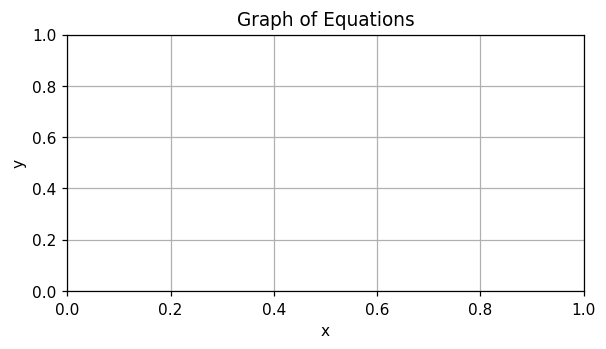
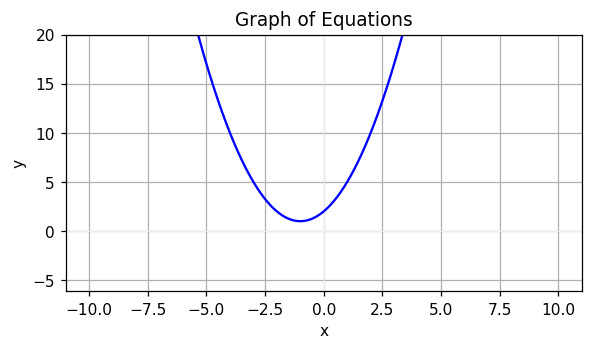
NR added to quadratics for non real roots

diff --git a/templates/index_past.html b/templates/index_past.html
@@ -106,7 +106,52 @@
             {% endif %}
 
             <!-- Calculator Section -->
-           
+            <div class="row">
+                <div class="col-12 calculator-section">
+                    <div class="card shadow-sm">
+                        <div class="card-body">
+                            <div id="calculator" class="mx-auto">
+                                <div id="keys">
+                                    <button onclick="append_to_equation('x')" class="variable-btn">x</button>
+                                    <button onclick="append_to_equation('y')" class="variable-btn">y</button>
+                                    <button onclick="append_to_equation('z')" class="variable-btn">z</button>
+                                    <button onclick="append_to_equation('=')" class="function-btn">=</button>
+                                    <button onclick="append_to_equation('\\n')" class="function-btn">New Line</button>
+                                    
+                                    <button onclick="append_to_equation('(')" class="function-btn">(</button>
+                                    <button onclick="append_to_equation(')')" class="function-btn">)</button>
+                                    <button onclick="append_to_equation('^')" class="function-btn">^</button>
+                                    <button onclick="append_to_equation('/')" class="operator-btn">÷</button>
+                                    <button onclick="append_to_equation('\\sqrt{}')" class="function-btn">√</button>
+                                    
+                                    <button onclick="append_to_equation('7')">7</button>
+                                    <button onclick="append_to_equation('8')">8</button>
+                                    <button onclick="append_to_equation('9')">9</button>
+                                    <button onclick="append_to_equation('-')" class="operator-btn">−</button>
+                                    <button onclick="append_to_equation('\\frac{}{}')" class="function-btn">⁄</button>
+                                    
+                                    <button onclick="append_to_equation('4')">4</button>
+                                    <button onclick="append_to_equation('5')">5</button>
+                                    <button onclick="append_to_equation('6')">6</button>
+                                    <button onclick="append_to_equation('*')" class="operator-btn">×</button>
+                                    <button onclick="get_prev_ans()" class="function-btn">ANS</button>
+                                    
+                                    <button onclick="append_to_equation('1')">1</button>
+                                    <button onclick="append_to_equation('2')">2</button>
+                                    <button onclick="append_to_equation('3')">3</button>
+                                    <button onclick="append_to_equation('+')" class="operator-btn">+</button>
+                                    <button onclick="clear_equation()" class="clear-btn">C</button>
+                                    
+                                    <button onclick="append_to_equation('0')" class="wide-btn">0</button>
+                                    <button onclick="append_to_equation('.')">.</button>
+                                    <button onclick="backspace()" class="function-btn">⌫</button>
+                                    <button onclick="solve_equation()" class="equal-btn">Solve</button>
+                                </div>
+                            </div>
+                        </div>
+                    </div>
+                </div>
+            </div>
         </div>
     </div>
     <script defer src="https://cdn.jsdelivr.net/npm/bootstrap@5.3.3/dist/js/bootstrap.bundle.min.js"></script>

diff --git a/static/scripts.js b/static/scripts.js
@@ -54,26 +54,26 @@ function solve_equation() {
 }
 
 
-document.addEventListener('DOMContentLoaded', function() {
-    const equationsArea = document.getElementById("equations");
+// document.addEventListener('DOMContentLoaded', function() {
+//     const equationsArea = document.getElementById("equations");
     
-    // Add keyboard event listener for keyboard shortcuts
-    equationsArea.addEventListener('keydown', function(event) {
-        // Allow special key combinations (like Ctrl+C, Ctrl+V)
-        if (event.ctrlKey || event.metaKey) {
-            return;
-        }
+//     // Add keyboard event listener for keyboard shortcuts
+//     equationsArea.addEventListener('keydown', function(event) {
+//         // Allow special key combinations (like Ctrl+C, Ctrl+V)
+//         if (event.ctrlKey || event.metaKey) {
+//             return;
+//         }
         
-        // Handle Enter key to add a new line instead of submitting the form
-        if (event.key === 'Enter' && !event.shiftKey) {
-            event.preventDefault();
-            append_to_equation('\\n');
-        }
-    });
+//         // Handle Enter key to add a new line instead of submitting the form
+//         if (event.key === 'Enter' && !event.shiftKey) {
+//             event.preventDefault();
+//             append_to_equation('\\n');
+//         }
+//     });
     
-    // Initialize focus on the textarea when page loads
-    equationsArea.focus();
-});
+//     // Initialize focus on the textarea when page loads
+//     equationsArea.focus();
+// });
 
 
 async function get_prev_ans() {  

diff --git a/templates/index.html b/templates/index.html
@@ -145,7 +145,7 @@
                                     <button onclick="append_to_equation('0')" class="wide-btn">0</button>
                                     <button onclick="append_to_equation('.')">.</button>
                                     <button onclick="backspace()" class="function-btn">⌫</button>
-                                    <button onclick="solve_equation()" class="equal-btn">Solve</button>
+                                    <button onclick="solve_equation()" class="solve-btn">Solve</button>
                                 </div>
                             </div>
                         </div>

diff --git a/static/styles.css b/static/styles.css
@@ -160,7 +160,7 @@ h5{
   background-color: #8b2020 !important;  
 }
 
-.equal-btn {
+.solve-btn {
   background-color: #16a085 !important;  
 }
 

diff --git a/equationSolver.py b/equationSolver.py
@@ -204,12 +204,7 @@ def row_reduction(A):
     return B
 
 def back_substitution(U,B):
-# =============================================================================
-#     U is a NumPy array that represents an upper triangular square mxm matrix.  
-#     B is a NumPy array that represents an mx1 vector     
-#     BackSubstitution will return an mx1 vector that is the solution of the
-#     system UX=B.
-# =============================================================================
+
     m = U.shape[0]  # m is number of rows and columns in U
     X = np.zeros((m,1))
     
@@ -224,13 +219,6 @@ def back_substitution(U,B):
     return X
 
 def solve_system(A,B):
-    # =============================================================================
-    # A is a NumPy array that represents a matrix of dimension n x n.
-    # B is a NumPy array that represents a matrix of dimension n x 1.
-    # SolveSystem returns a NumPy array of dimension n x 1 such that AX = B.
-    # If the system AX = B does not have a unique solution, SolveSystem may not
-    # generate correct results.
-    # =============================================================================
 
     infiniteSolutions = False
 
@@ -307,10 +295,7 @@ def solve_systems_and_linear(equations):
 
 # matrix manipulation functions
 def row_swap(A,k,l):
-# =============================================================================
-#     A is a NumPy array.  RowSwap will return duplicate array with rows
-#     k and l swapped.
-# =============================================================================
+
     m = A.shape[0]  # m is number of rows in A
     n = A.shape[1]  # n is number of columns in A
     
@@ -324,10 +309,7 @@ def row_swap(A,k,l):
     return B
 
 def row_scale(A,k,scale):
-# =============================================================================
-#     A is a NumPy array.  RowScale will return duplicate array with the
-#     entries of row k multiplied by scale.
-# =============================================================================
+
     m = A.shape[0]  # m is number of rows in A
     n = A.shape[1]  # n is number of columns in A
     
@@ -339,11 +321,7 @@ def row_scale(A,k,scale):
     return B
 
 def row_add(A,k,l,scale):
-# =============================================================================
-#     A is a numpy array.  RowAdd will return duplicate array with row
-#     l modifed.  The new values will be the old values of row l added to 
-#     the values of row k, multiplied by scale.
-# =============================================================================
+
     m = A.shape[0]  # m is number of rows in A
     n = A.shape[1]  # n is number of columns in A
     
@@ -407,8 +385,9 @@ def solve_quadratic(equation):
             result['solutions'] = x
 
         else:
-            result['solutions'] = "No real roots"
-            result['note'] = "No real roots"
+            result = solve_polynomial(equation)
+            #result['solutions'] = "No real roots"
+            #result['note'] = "No real roots"
 
         return result
 
@@ -605,7 +584,7 @@ def show_graph(equations):
             # Preprocess equation
             eq = preprocess_equation(equation)
             
-            # Handle special cases first
+            # Handle constant cases first
             if handle_constant_equation(eq, color):
                 continue
                 
@@ -625,6 +604,8 @@ def show_graph(equations):
     plt.xlabel("x")
     plt.ylabel("y")
     adjust_axes_limits()
+
+    plt.show()
     
     plt.savefig("static/graph.png", dpi=111, bbox_inches='tight')
     plt.close()
@@ -803,5 +784,5 @@ if __name__ == "__main__":
 
 
     print(result)
-    #show_graph(equations)
+    show_graph(equations)
     print("Test")
